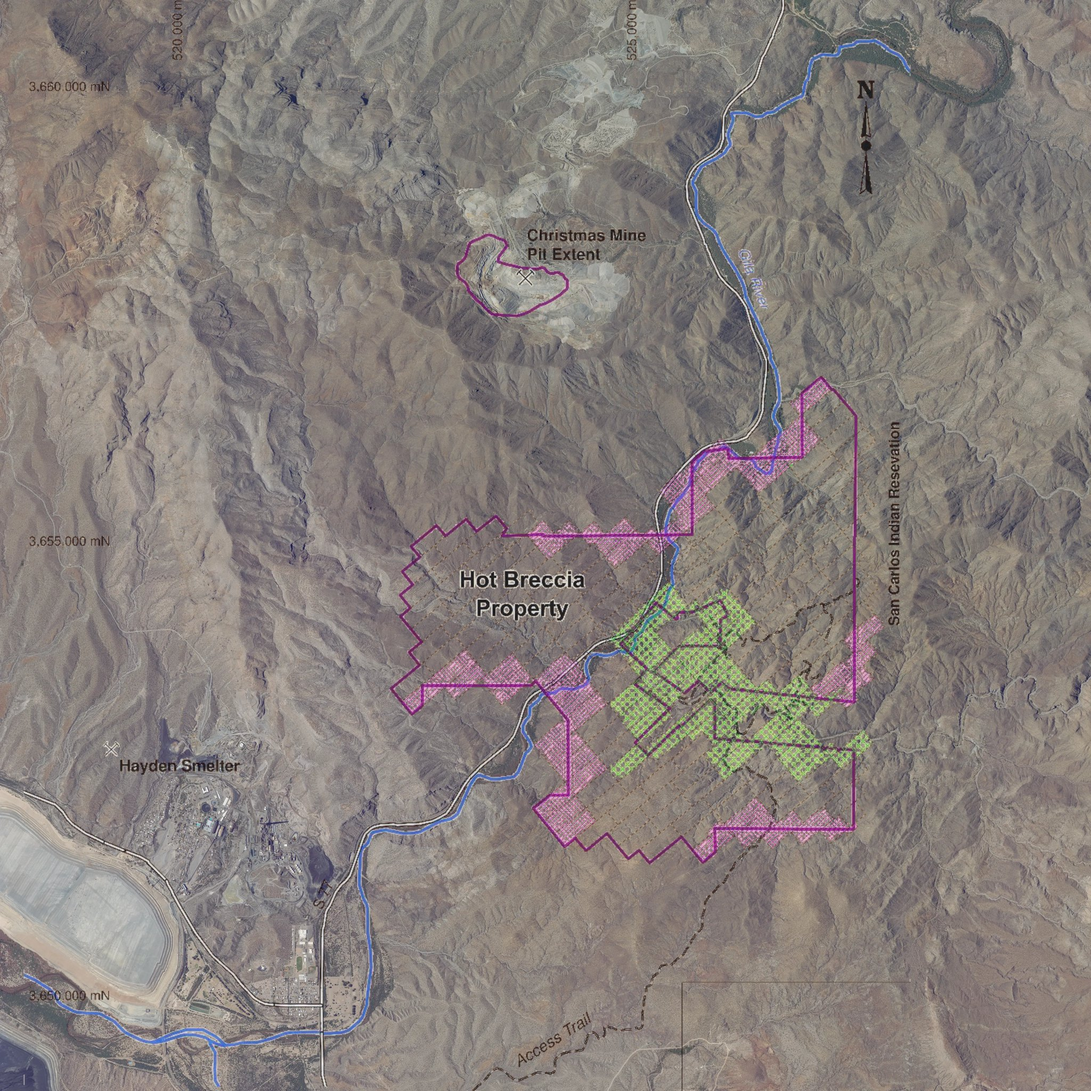
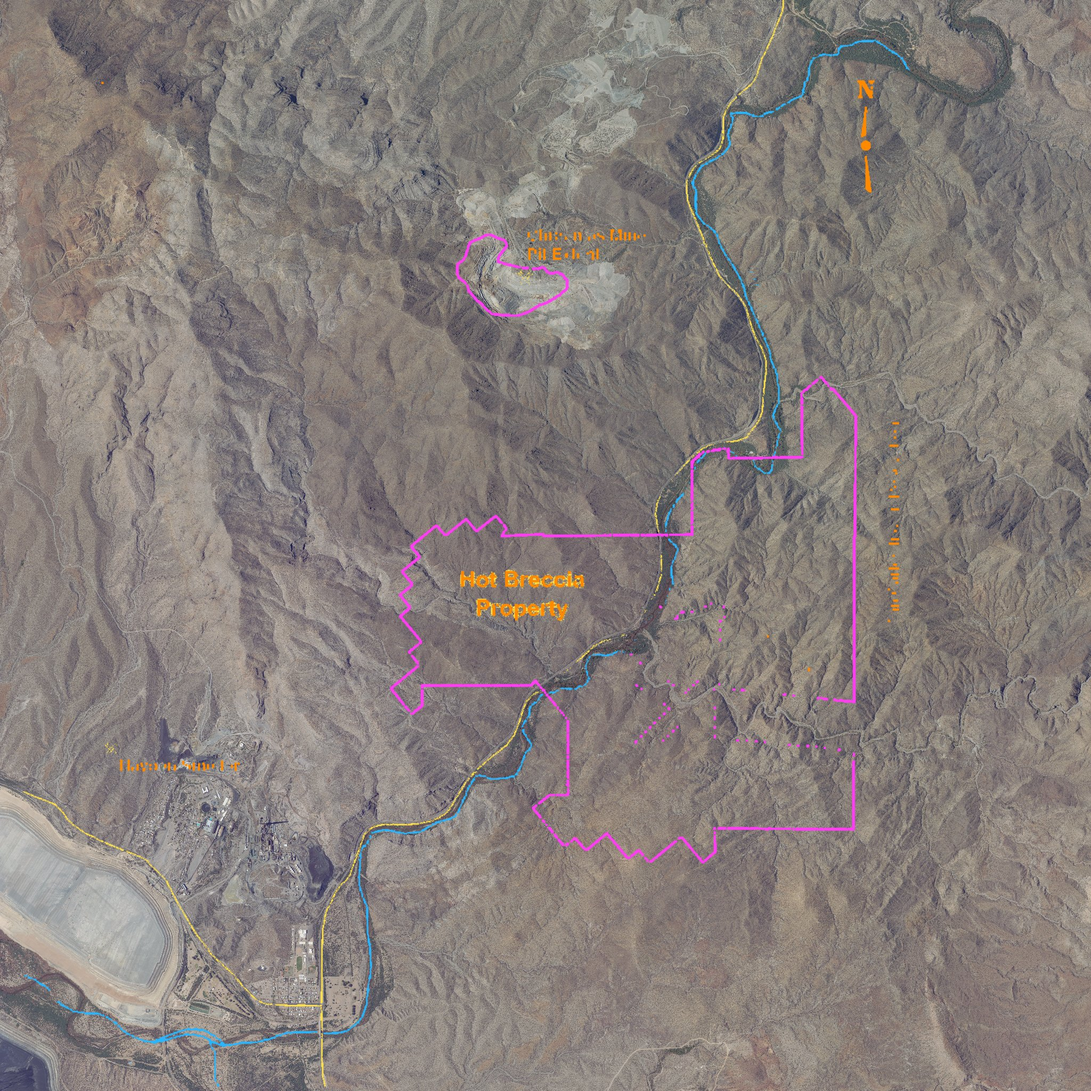
Make the Fig 2 check easier: lines-only overlay, top-down map view, close-up check sheets

diff --git a/src/main.ts b/src/main.ts
@@ -97,7 +97,17 @@ const quadrants: { mesh: THREE.Mesh; imagery: THREE.MeshBasicMaterial }[] = [];
 let imageryOn = true;
 // Report Fig 2 draped on the terrain so its georeferencing can be checked by eye. Not a final layer.
 const fig2Group = new THREE.Group();
-const fig2Materials: THREE.MeshBasicMaterial[] = [];
+const fig2Materials: { mat: THREE.MeshBasicMaterial; lines: THREE.Texture | null; full: THREE.Texture | null }[] = [];
+function applyFig2() {
+  const linesOnly = $<HTMLInputElement>('t-fig2-lines').checked;
+  for (const f of fig2Materials) {
+    const tex = linesOnly ? f.lines : f.full;
+    f.mat.map = tex;
+    f.mat.visible = tex !== null;
+    f.mat.needsUpdate = true;
+  }
+  requestRender();
+}
 
 function applyImagery() {
   for (const q of quadrants) q.mesh.material = imageryOn && q.imagery.map ? q.imagery : hillMaterial;
@@ -114,18 +124,23 @@ function buildTerrain() {
       const mesh = new THREE.Mesh(terrain.buildQuadrant(row, col, lowPower ? 3 : 1), hillMaterial);
       world.add(mesh);
       quadrants.push({ mesh, imagery });
-      loader.load(`${BASE}fig2_overlay_r${row}c${col}.webp`, (tex) => {
-        tex.colorSpace = THREE.SRGBColorSpace;
-        const mat = new THREE.MeshBasicMaterial({
-          map: tex, transparent: true, opacity: Number($<HTMLInputElement>('fig2-opacity').value), depthWrite: false,
-          polygonOffset: true, polygonOffsetFactor: -2, polygonOffsetUnits: -2,
-        });
-        fig2Materials.push(mat);
-        const overlay = new THREE.Mesh(mesh.geometry, mat);
-        overlay.renderOrder = 1;
-        fig2Group.add(overlay);
-        requestRender();
+      // Two versions of the Fig 2 check overlay: recoloured main lines, and the whole figure.
+      const mat = new THREE.MeshBasicMaterial({
+        transparent: true, opacity: Number($<HTMLInputElement>('fig2-opacity').value), depthWrite: false,
+        polygonOffset: true, polygonOffsetFactor: -2, polygonOffsetUnits: -2, visible: false,
       });
+      const overlay = new THREE.Mesh(mesh.geometry, mat);
+      overlay.renderOrder = 1;
+      fig2Group.add(overlay);
+      const entry = { mat, lines: null as THREE.Texture | null, full: null as THREE.Texture | null };
+      fig2Materials.push(entry);
+      for (const kind of ['lines', 'full'] as const) {
+        loader.load(`${BASE}fig2_${kind === 'lines' ? 'lines' : 'overlay'}_r${row}c${col}.webp`, (tex) => {
+          tex.colorSpace = THREE.SRGBColorSpace;
+          entry[kind] = tex;
+          applyFig2();
+        });
+      }
       const setMap = (tex: THREE.Texture) => {
         tex.colorSpace = THREE.SRGBColorSpace;
         tex.anisotropy = renderer.capabilities.getMaxAnisotropy();
@@ -350,10 +365,18 @@ toggle('t-website', (on) => { websiteGroup.visible = on; });
 toggle('t-claims', (on) => { claimsGroup.visible = on; });
 toggle('t-fig2', (on) => { fig2Group.visible = on; });
 $<HTMLInputElement>('fig2-opacity').addEventListener('input', (e) => {
-  for (const m of fig2Materials) m.opacity = Number((e.target as HTMLInputElement).value);
+  for (const f of fig2Materials) f.mat.opacity = Number((e.target as HTMLInputElement).value);
   requestRender();
 });
 $('reset').addEventListener('click', resetView);
+$<HTMLInputElement>('t-fig2-lines').addEventListener('change', applyFig2);
+// Straight down with north at the top, like a paper map. Keeps the current centre and zoom.
+$('topdown').addEventListener('click', () => {
+  const dist = camera.position.distanceTo(controls.target);
+  camera.position.set(controls.target.x, controls.target.y + dist, controls.target.z + 0.01);
+  controls.update();
+  requestRender();
+});
 $<HTMLInputElement>('exag').addEventListener('input', (e) => {
   const next = Number((e.target as HTMLInputElement).value);
   controls.target.y = (controls.target.y / exaggeration) * next;
@@ -420,7 +443,7 @@ async function start() {
   buildTerrain();
   world.add(fig2Group);
   const fig2 = await getJson<GeorefFile>('fig2_georef.json');
-  $('m-fig2').textContent = `approximate · report Figure 2 placed using its printed UTM grid · grid fit RMS ${fig2.rms_m} m · 1 figure pixel = ${fig2.pixel_size_m} m`;
+  $('m-fig2').textContent = `approximate · report Figure 2 placed using its printed UTM grid · grid fit RMS ${fig2.rms_m} m · 1 figure pixel = ${fig2.pixel_size_m} m · magenta = boundary and pit, blue = river, yellow = highway, orange = trail and other dark lines`;
   buildCollars(collars);
   buildSamples(report, reportGroup, 'm-report');
   buildSamples(website, websiteGroup, 'm-website');

diff --git a/index.html b/index.html
@@ -26,10 +26,12 @@
         <label class="layer"><input type="checkbox" id="t-claims" checked /><span id="l-claims">Claims<small id="m-claims"></small></span></label>
         <label class="layer"><input type="checkbox" id="t-fig2" checked /><span>Report Fig 2 overlay (check only)<small id="m-fig2"></small></span></label>
         <div class="row sub"><input type="range" id="fig2-opacity" min="0.1" max="1" step="0.05" value="0.7" aria-label="Fig 2 overlay opacity" /><output>opacity</output></div>
+        <label class="layer sub"><input type="checkbox" id="t-fig2-lines" checked /><span>Main lines only (hide hatching and claim grid)</span></label>
         <p class="layer-note" id="m-terrain"></p>
         <h2>Vertical exaggeration</h2>
         <div class="row"><input type="range" id="exag" min="1" max="3" step="0.5" value="1" aria-label="Vertical exaggeration" /><output id="exag-val">1×</output></div>
         <button id="reset" type="button">Reset view</button>
+        <button id="topdown" type="button">Top-down map view (north up)</button>
       </details>
 
       <div id="exag-badge" hidden></div>

diff --git a/src/style.css b/src/style.css
@@ -45,7 +45,9 @@ html, body, #app { margin: 0; height: 100%; overflow: hidden; background: var(--
 button { font: inherit; color: var(--text); background: rgba(255, 255, 255, 0.1); border: 1px solid var(--line);
   border-radius: 6px; padding: 7px 10px; cursor: pointer; }
 button:hover { background: rgba(255, 255, 255, 0.18); }
-#reset { width: 100%; margin-top: 10px; }
+#reset, #topdown { width: 100%; margin-top: 10px; }
+#topdown { margin-top: 6px; }
+.layer.sub { margin-left: 22px; font-size: 12px; }
 
 #exag-badge { top: 12px; left: 50%; transform: translateX(-50%); padding: 6px 12px; color: #1b1300;
   background: var(--accent); border-color: transparent; font-weight: 600; white-space: nowrap; }

diff --git a/scripts/georef_fig2.py b/scripts/georef_fig2.py
@@ -4,7 +4,7 @@ Run: cd scripts && ../.venv/bin/python georef_fig2.py
 Method: find the dotted grid lines (520,000 and 525,000 mE; 3,650,000, 3,655,000 and 3,660,000 mN) to
 sub-pixel precision, use their six crossings as control points, and fit an affine transform
 (pixel -> UTM) by least squares. Residuals are printed for every control point.
-Outputs: data/processed/fig2_georef.json, fig2_overlay_r{row}c{col}.webp (check overlay for the viewer),
+Outputs: data/processed/fig2_georef.json, fig2_overlay_* (whole figure) and fig2_lines_* (main lines only) check overlays for the viewer,
          docs/screens/fig2-georef-check.jpg (figure linework over the NAIP imagery).
 """
 import json, datetime
@@ -49,20 +49,51 @@ pixel_m = float(np.hypot(ce[1], cn[1]))
 print(f"  RMS {rms:.2f} m, worst {max(r['residual_m'] for r in res):.2f} m. One figure pixel = {pixel_m:.1f} m, "
       f"so nothing traced from this figure can be better than about +/- {pixel_m:.0f} m.")
 
-# ---- Warp the figure onto the terrain box (inverse map: output pixel -> figure pixel) ----
+# ---- Warp the figure onto the terrain (inverse map: output pixel -> figure pixel) ----
+from PIL import ImageFilter, ImageDraw
 M = np.array([[ce[1], ce[2]], [cn[1], cn[2]]]); Minv = np.linalg.inv(M)
 def to_pixel(e, n): return Minv @ np.array([e - ce[0], n - cn[0]])
-SIZE = 4096; r = (E - W) / SIZE
-p0 = to_pixel(W + r / 2, N - r / 2); dx = Minv @ np.array([r, 0]); dy = Minv @ np.array([0, -r])
-rgba = np.dstack([im, np.where(np.abs(im - BG).sum(2) > 70, 255, 0)]).astype("uint8")
-rgba[:66, :, 3] = 0; rgba[1643:, :, 3] = 0; rgba[:, :63, 3] = 0; rgba[:, 1249:, 3] = 0   # outside the map frame
-rgba[1536:, :546, 3] = 0; rgba[1397:, 944:, 3] = 0                                        # legend and title block
-warped = Image.fromarray(rgba, "RGBA").transform((SIZE, SIZE), Image.AFFINE,
-                                                 (dx[0], dy[0], p0[0], dx[1], dy[1], p0[1]), resample=Image.BILINEAR)
+
+def frame_only(alpha):
+    alpha = alpha.copy()
+    alpha[:66] = 0; alpha[1643:] = 0; alpha[:, :63] = 0; alpha[:, 1249:] = 0   # outside the map frame
+    alpha[1536:, :546] = 0; alpha[1397:, 944:] = 0                               # legend and title block
+    return alpha
+
+# Full figure: everything that is not plain background.
+full = np.dstack([im, frame_only(np.where(np.abs(im - BG).sum(2) > 70, 255, 0))]).astype("uint8")
+
+# Lines only: keep the thick line features and recolour them so they stand out on the imagery.
+# Thin hatching and the thin claim grid are removed with a 3 x 3 "opening" (erode, then grow back).
+def opened(mask):
+    m = Image.fromarray((mask * 255).astype("uint8")).filter(ImageFilter.MinFilter(3)).filter(ImageFilter.MaxFilter(3))
+    return np.asarray(m) > 0
+r_, g_, b_ = im[..., 0], im[..., 1], im[..., 2]
+LINE_CLASSES = [  # name, mask, display colour
+    ("highway (white road casing; also white label outlines)", (r_ > 238) & (g_ > 238) & (b_ > 238), (255, 225, 77)),
+    ("dark lines: access trail, inner outlines, labels", opened(im.sum(2) < 150), (255, 138, 0)),
+    ("Gila River", (b_ > 200) & (r_ < 130) & (b_ - r_ > 100), (41, 182, 255)),
+    ("property boundary and Christmas Mine pit outline", opened((r_ > 60) & (b_ > 40) & (g_ < 60) & (r_ - g_ > 50)), (255, 61, 242)),
+]
+lines = np.zeros(im.shape[:2] + (4,), "uint8")
+for _, mask, colour in LINE_CLASSES:
+    lines[mask] = (*colour, 255)
+lines[..., 3] = frame_only(lines[..., 3])
+
+def warp(rgba, w, e, s, n, width, height):
+    rx, ry = (e - w) / width, (n - s) / height
+    p0 = to_pixel(w + rx / 2, n - ry / 2); dx = Minv @ np.array([rx, 0]); dy = Minv @ np.array([0, -ry])
+    return Image.fromarray(rgba, "RGBA").transform((width, height), Image.AFFINE,
+                                                   (dx[0], dy[0], p0[0], dx[1], dy[1], p0[1]), resample=Image.BILINEAR)
+
+SIZE = 4096
 out = ROOT / "data/processed"
-for row in range(2):
-    for col in range(2):
-        warped.crop((col * 2048, row * 2048, (col + 1) * 2048, (row + 1) * 2048)).save(out / f"fig2_overlay_r{row}c{col}.webp", "WEBP", quality=80, method=6)
+for name, rgba in (("overlay", full), ("lines", lines)):
+    warped = warp(rgba, W, E, S, N, SIZE, SIZE)
+    for row in range(2):
+        for col in range(2):
+            warped.crop((col * 2048, row * 2048, (col + 1) * 2048, (row + 1) * 2048)).save(
+                out / f"fig2_{name}_r{row}c{col}.webp", "WEBP", quality=80, method=6)
 
 corners = [to_utm(63, 66), to_utm(1249, 66), to_utm(1249, 1643), to_utm(63, 1643)]
 meta = {
@@ -78,13 +109,28 @@ meta = {
 (out / "fig2_georef.json").write_text(json.dumps(meta, indent=2))
 print("map frame covers E %d-%d, N %d-%d" % (corners[0][0], corners[1][0], corners[2][1], corners[0][1]))
 
-# ---- 2D check picture: figure linework over NAIP ----
-base = Image.new("RGB", (2048, 2048))
-for row in range(2):
-    for col in range(2):
-        base.paste(Image.open(out / f"imagery_r{row}c{col}_2048.webp").resize((1024, 1024)), (col * 1024, row * 1024))
-ov = warped.resize((2048, 2048), Image.LANCZOS)
-ov.putalpha(ov.getchannel("A").point(lambda a: int(a * 0.75)))
-base.paste(ov, (0, 0), ov)
+# ---- Check pictures: figure lines over the 2025 NAIP imagery ----
+import rasterio
+from rasterio.windows import from_bounds as win_from_bounds
+naip = rasterio.open(sorted((ROOT / "data/raw/naip").glob("*_box_v2_*.tif"))[-1])
+def check_panel(title, w, e, s, n, px=900):
+    rgb = naip.read(window=win_from_bounds(w, s, e, n, naip.transform), out_shape=(3, px, px))
+    base = Image.fromarray(np.moveaxis(rgb, 0, -1)).convert("RGB")
+    ov = warp(lines, w, e, s, n, px, px)
+    left = base.copy(); right = base.copy(); right.paste(ov, (0, 0), ov)
+    sheet = Image.new("RGB", (px * 2 + 12, px + 44), (18, 22, 27))
+    sheet.paste(left, (0, 44)); sheet.paste(right, (px + 12, 44))
+    d = ImageDraw.Draw(sheet)
+    d.text((8, 6), f"{title}   |   left: 2025 aerial imagery only   |   right: same view with Fig 2 lines", fill=(255, 255, 255), font_size=18)
+    d.text((8, 26), f"E {w:,}-{e:,}   N {s:,}-{n:,}   ({(e - w) / 1000:.1f} km across)   magenta = boundary/pit, blue = river, yellow = highway, orange = trail and other dark lines",
+           fill=(190, 198, 206), font_size=13)
+    return sheet
+PANELS = [("1 Christmas Mine pit", 522300, 525100, 3656400, 3659200), ("2 Highway 77 and Gila River at the property", 524300, 526300, 3653300, 3655300),
+          ("3 Highway 77 through Winkelman", 519800, 522200, 3648900, 3651300), ("4 Access trail, south-east", 525500, 528000, 3649500, 3652000)]
 (ROOT / "docs/screens").mkdir(exist_ok=True)
+for title, w, e, s, n in PANELS:
+    check_panel(title, w, e, s, n).save(ROOT / f"docs/screens/fig2-check-{title[0]}.jpg", quality=88)
+whole = warp(lines, W, E, S, N, 2048, 2048)
+base = Image.fromarray(np.moveaxis(naip.read(out_shape=(3, 2048, 2048)), 0, -1)).convert("RGB")
+base.paste(whole, (0, 0), whole)
 base.save(ROOT / "docs/screens/fig2-georef-check.jpg", quality=85)
